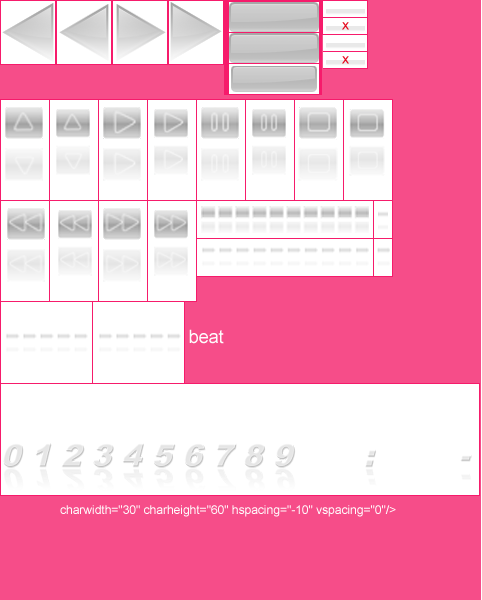
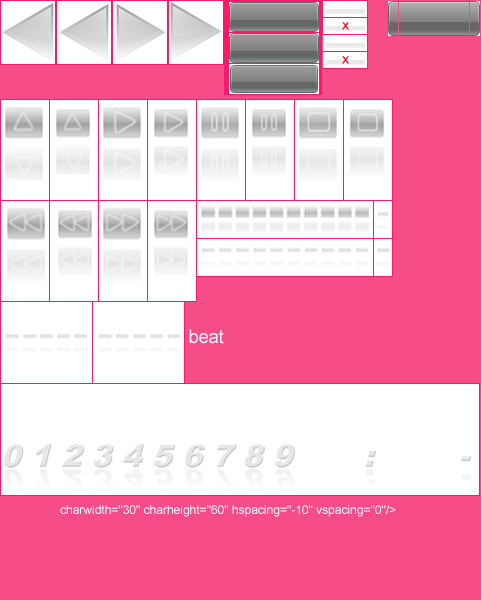
-update button graphics. -added to plslider to graphics.png -tons of clean-up (and more to come) -few bug fixes on config.m

Changed region(s): [[0.4668, 0.0, 0.6846, 0.18], [0.778, 0.0, 0.9959, 0.06]]

diff --git a/skins/MusicShowXS/scripts/config.m b/skins/MusicShowXS/scripts/config.m
@@ -90,34 +90,24 @@ bgdef.onToggle(int on) {
 }
 
 bgimage.onToggle(int on) {
-	if (!on) {
-		bgimage.setActivatedNoCallback(1);
-	}
+
+	bgimage.setActivatedNoCallback(0);
+
 	
 	browseButton.leftClick();
-	
-	/*file filecheck = new File;
-	
-	filecheck.load(imagefname.getText());
-	if (filecheck.exists()) {
-		bkground_image_attrib.setData("IMAGE:"+imagefname.getText()+";0");
-	}
-	
-	delete filecheck;*/
-	
-	//bgdef.setActivatedNoCallback(0);
-	//bgwall.setActivatedNoCallback(0);
+
 }
 
 imagefname.onEditUpdate() {
-	bgwall.setActivatedNoCallback(0);
-	bgimage.setActivatedNoCallback(1);
-	bgdef.setActivatedNoCallback(0);
 	
 	file filecheck = new File;
 	
 	filecheck.load(imagefname.getText());
 	if (filecheck.exists()) {
+		bgwall.setActivatedNoCallback(0);
+		bgimage.setActivatedNoCallback(1);
+		bgdef.setActivatedNoCallback(0);
+		
 		bkground_image_attrib.setData("IMAGE:"+imagefname.getText()+";0");
 		if (!noaddcurrbg) {
 			string bg1 = getPrivateString("MusicShow","currbg1","");

diff --git a/skins/MusicShowXS/xui/NowPlaying/NowPlaying.m b/skins/MusicShowXS/xui/NowPlaying/NowPlaying.m
@@ -171,6 +171,12 @@ cdboxHolder.onResize(int x, int y, int w, int h)
 	resizeToThis(xs, ys, ws, hs);
 }
 
+cdboxHolder.onSetVisible(int on) {
+	if (on) {
+		cdboxHolder.onResize(getLeft(), getTop(), getWidth(), getHeight());
+	}
+}
+
 resizeToThis(int x, int y, int w, int h)
 {
 	//this has to be here, if below this value then album art resizes itself stupid, do not alter this value - SLoB
